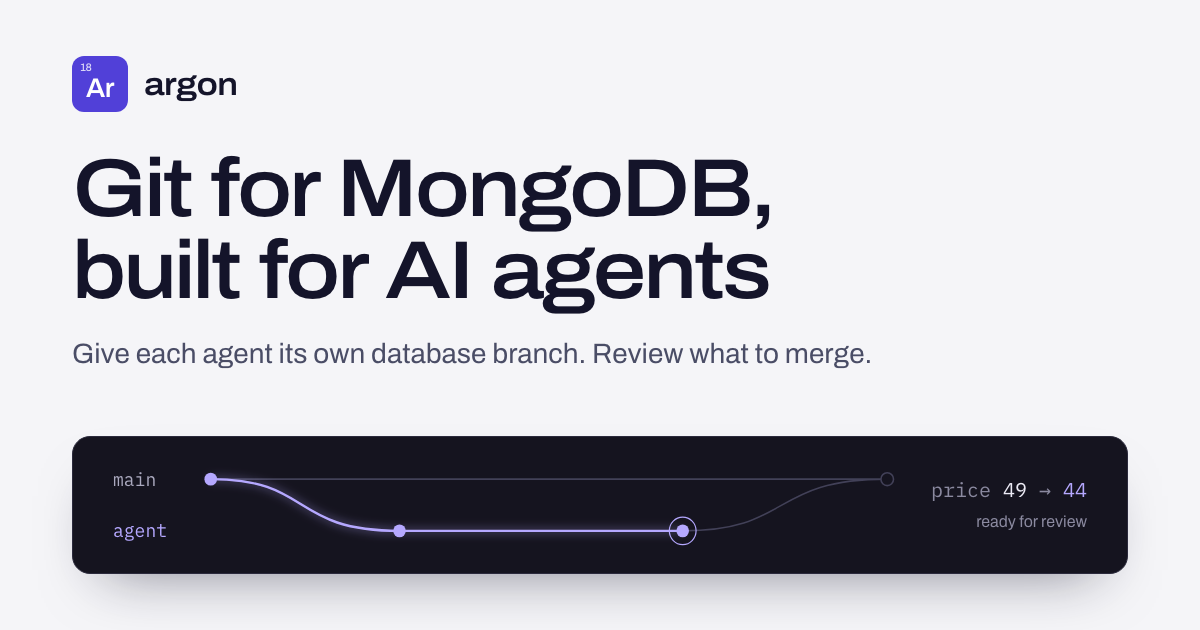
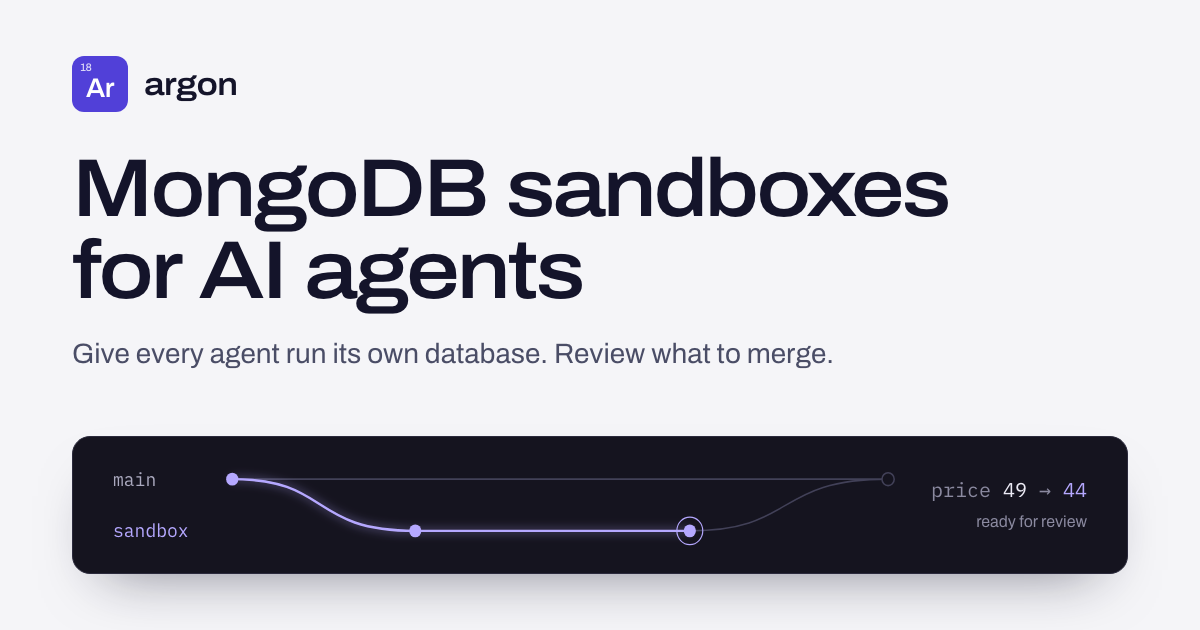
Lead with MongoDB sandboxes for AI agents (#33)
Lead with what an agent team gets, a disposable MongoDB sandbox per run,
and keep Git-style branching as how it works. Updates the homepage
headline and lede, page titles and descriptions, the structured data,
the footer, llms.txt and the share image.

diff --git a/app/layout.tsx b/app/layout.tsx
@@ -37,24 +37,24 @@ const themeScript = `(function(){try{var t=localStorage.getItem("argon.theme");i
 export const metadata = {
   metadataBase: new URL("https://argonlabs.tech"),
   title: {
-    default: "Argon — Git for MongoDB, Built for AI Agents",
+    default: "Argon — MongoDB Sandboxes for AI Agents",
     template: "%s — Argon",
   },
   description:
-    "Open-source branching and merge for MongoDB. Give every AI agent its own branch — a real MongoDB database — review what it wrote, and merge what works.",
+    "Open-source MongoDB sandboxes for AI agents. Give every agent run its own real MongoDB database, forked from your data. Review what it wrote and merge what works.",
   openGraph: {
     type: "website",
     url: "https://argonlabs.tech",
     siteName: "Argon",
-    title: "Argon — Git for MongoDB, Built for AI Agents",
+    title: "Argon — MongoDB Sandboxes for AI Agents",
     description:
-      "Git-like branching and merge for MongoDB. A real database branch per AI agent — review the diff, merge what works, discard the rest.",
+      "Disposable MongoDB sandboxes for AI agents. Each run gets a real database forked from your data — review the diff, merge what works, discard the rest.",
     images: [
       {
         url: "/og.png",
         width: 1200,
         height: 630,
-        alt: "Argon — Git for MongoDB, built for AI agents",
+        alt: "Argon — MongoDB sandboxes for AI agents",
       },
     ],
   },
@@ -64,9 +64,9 @@ export const metadata = {
   },
   twitter: {
     card: "summary_large_image",
-    title: "Argon — Git for MongoDB, Built for AI Agents",
+    title: "Argon — MongoDB Sandboxes for AI Agents",
     description:
-      "Git-like branching and merge for MongoDB. A real database branch per AI agent — review the diff, merge what works, discard the rest.",
+      "Disposable MongoDB sandboxes for AI agents. Each run gets a real database forked from your data — review the diff, merge what works, discard the rest.",
     images: ["/og.png"],
   },
   icons: {
@@ -102,7 +102,7 @@ const jsonLd = {
       applicationCategory: "DeveloperApplication",
       operatingSystem: "macOS, Linux, Windows",
       description:
-        "Open-source engine that brings Git-style branching, time travel, and merge to MongoDB — a real, isolated database branch for every developer and AI agent.",
+        "Open-source MongoDB sandboxes for AI agents: a real, isolated database for every agent run, with Git-style branching, time travel, and reviewed merge underneath.",
       url: "https://argonlabs.tech",
       downloadUrl: "https://github.com/argon-lab/argon",
       softwareVersion: product.version,
@@ -151,9 +151,9 @@ const Footer = () => (
             </span>
           </div>
           <p className="mt-4 max-w-xs text-sm leading-6 text-brand-muted">
-            Git-like branching and time travel for MongoDB. Named after the
-            noble gas: experiments stay on branches until you explicitly merge
-            them.
+            MongoDB sandboxes for AI agents, with Git-style branching and time
+            travel underneath. Named after the noble gas: experiments stay on
+            branches until you explicitly merge them.
           </p>
         </div>
         <FooterColumn

diff --git a/app/page.tsx b/app/page.tsx
@@ -31,14 +31,15 @@ export default function HomePage() {
     <>
       <section className="mx-auto max-w-6xl px-6 pt-14 sm:pt-20 lg:pt-24">
         <h1 className="display text-[2.75rem] text-brand-text sm:text-6xl lg:text-[5.25rem]">
-          Git for MongoDB,
+          MongoDB sandboxes
           <br />
-          built for AI agents
+          for AI agents
         </h1>
         <div className="mt-8 grid gap-8 lg:mt-10 lg:grid-cols-12 lg:items-end">
           <p className="lede max-w-xl lg:col-span-6">
-            Give each agent its own database branch. Test changes, revisit
-            earlier states, and review what to merge.
+            Give every agent run its own real MongoDB database, forked from your
+            data. Review what it changed, merge what works, and discard the
+            rest.
           </p>
           <div className="lg:col-span-6 lg:justify-self-end">
             <div className="flex flex-wrap gap-3">

diff --git a/app/llms.txt/route.ts b/app/llms.txt/route.ts
@@ -6,7 +6,7 @@ export const dynamic = "force-static";
 export function GET() {
   const text = `# Argon
 
-> Argon is an MIT-licensed, self-hosted engine for Git-style branching, time travel, reviewed merge, and undo for MongoDB.
+> Argon gives AI agents disposable MongoDB sandboxes. It is an MIT-licensed, self-hosted engine with Git-style branching, time travel, reviewed merge, and undo for MongoDB.
 
 ## What you can do
 
